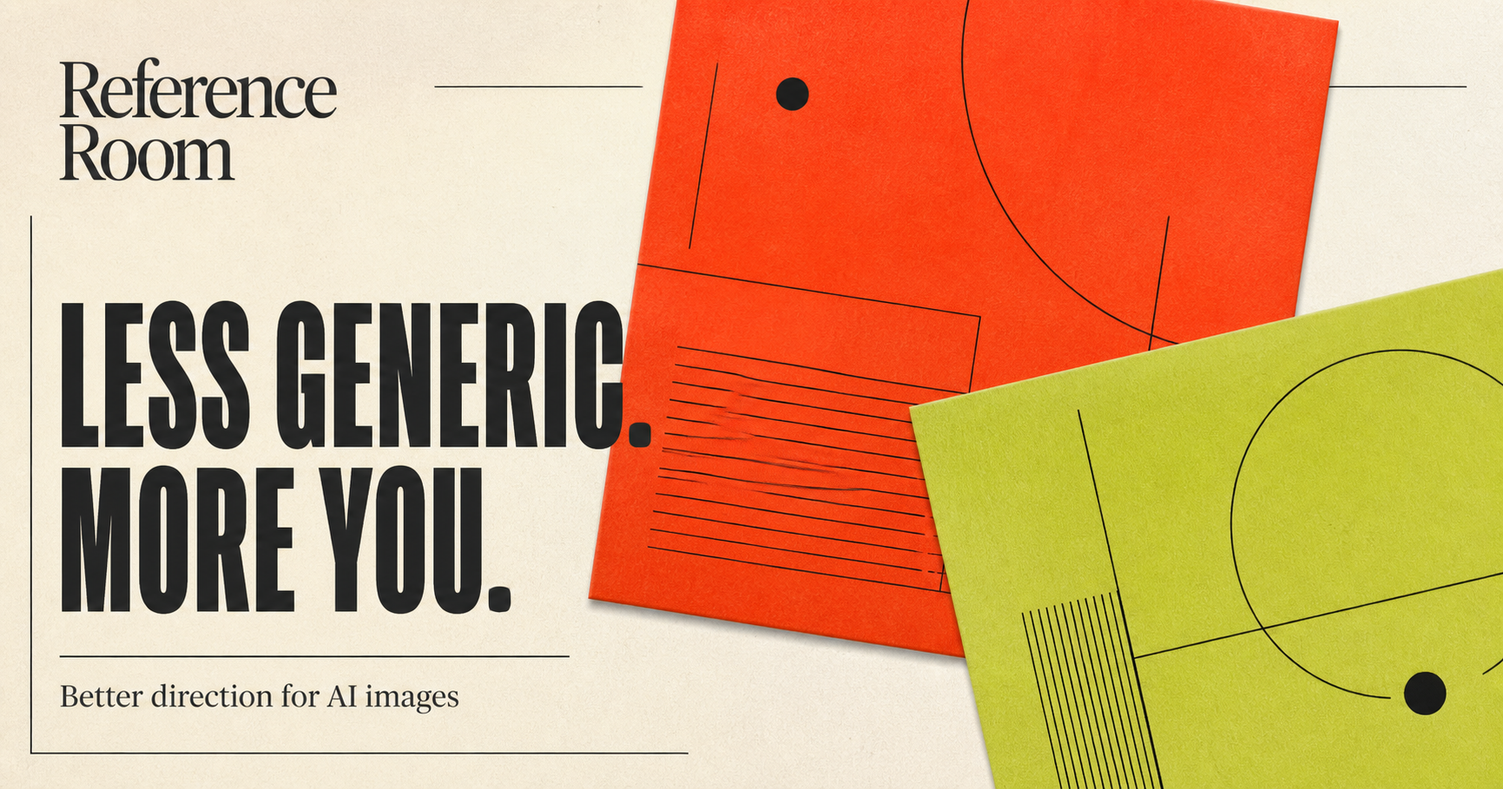
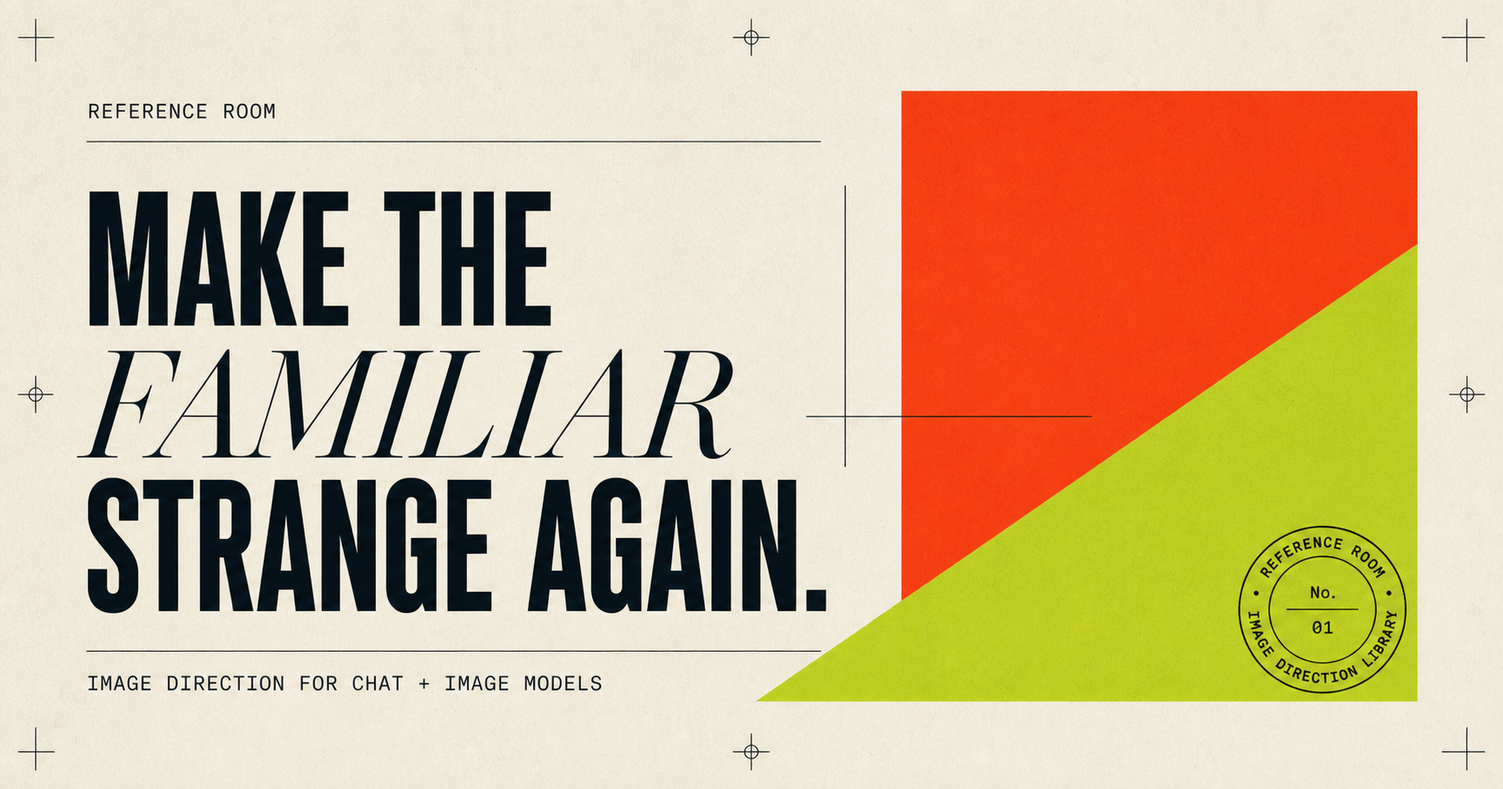
Redesign Reference Room library experience

diff --git a/app/globals.css b/app/globals.css
@@ -1,2 +1,2 @@
-@import url('https://fonts.googleapis.com/css2?family=DM+Mono:wght@400;500&family=DM+Sans:wght@400;500;600;700&family=Playfair+Display:ital,wght@0,500;0,600;1,500;1,600&display=swap');
-:root{--ink:#202018;--paper:#f4f1e8;--cream:#eae4d6;--orange:#f06a3a;--lime:#c5d37a;--line:rgba(32,32,24,.18);--serif:'Playfair Display',Georgia,serif;--sans:'DM Sans',sans-serif;--mono:'DM Mono',monospace}*{box-sizing:border-box}html{scroll-behavior:smooth}body{margin:0;background:var(--paper);color:var(--ink);font-family:var(--sans)}a{color:inherit;text-decoration:none}button,input{font:inherit}.site-header{height:78px;border-bottom:1px solid var(--line);padding:0 clamp(20px,5vw,76px);display:flex;align-items:center;justify-content:space-between;background:rgba(244,241,232,.92);position:sticky;top:0;z-index:10;backdrop-filter:blur(12px)}.brand{font-size:14px;font-weight:700;letter-spacing:-.03em;display:flex;gap:10px;align-items:center}.brand span,.gate-mark{width:28px;height:28px;display:grid;place-items:center;border:1px solid currentColor;border-radius:50%;font:500 9px var(--mono);letter-spacing:-.1em}.site-header nav{display:flex;gap:27px;font-size:13px}.site-header nav a:hover,.text-link:hover{color:var(--orange)}.menu-button{display:none;background:none;border:0;color:inherit}.hero{min-height:680px;padding:clamp(80px,12vw,150px) clamp(20px,9vw,150px) 90px;display:grid;grid-template-columns:minmax(0,1fr) minmax(310px,.75fr);gap:10vw;align-items:center;border-bottom:1px solid var(--line);overflow:hidden}.eyebrow,.mini-label{font:500 10px var(--mono);letter-spacing:.12em;text-transform:uppercase}.hero h1,.gate-card h1{font:500 clamp(58px,7.3vw,110px)/.92 var(--serif);letter-spacing:-.07em;margin:18px 0 26px}.hero h1 em{color:var(--orange);font-weight:500}.hero-copy{max-width:470px;font-size:17px;line-height:1.55}.hero-actions{display:flex;gap:28px;align-items:center;margin-top:35px}.button{padding:14px 18px;display:inline-flex;align-items:center;gap:25px;font-size:12px;font-weight:600;border:1px solid var(--ink);transition:.2s transform,.2s background}.button:hover{transform:translateY(-2px)}.button.dark{background:var(--ink);color:var(--paper)}.button.light{background:transparent}.button span,.card-link span{font-size:17px;line-height:0}.text-link{font-size:13px;text-decoration:underline;text-underline-offset:4px}.hero-art{height:390px;position:relative;transform:rotate(2deg)}.art-card{position:absolute;width:230px;height:294px;padding:20px;display:flex;justify-content:space-between;flex-direction:column;box-shadow:9px 10px 0 rgba(32,32,24,.12);overflow:hidden}.art-card span{font:10px var(--mono)}.art-card b{font:500 34px/.88 var(--serif);letter-spacing:-.07em;z-index:1}.card-one{top:0;left:0;background:var(--orange);transform:rotate(-8deg)}.card-two{right:0;bottom:0;background:var(--lime);transform:rotate(9deg)}.art-card:after{content:"";position:absolute;width:230px;height:230px;border:2px solid var(--ink);border-radius:50%;right:-58px;top:50px}.card-two:after{border-radius:0;transform:rotate(42deg);top:75px}.art-note{position:absolute;bottom:28px;left:-30px;background:var(--paper);padding:12px 15px;border:1px solid var(--ink);font:10px/1.5 var(--mono);z-index:2;transform:rotate(-6deg)}.feature-strip{display:grid;grid-template-columns:1fr 1fr;gap:11vw;padding:clamp(70px,10vw,140px) clamp(20px,9vw,150px);background:var(--lime)}h2{font:500 clamp(36px,4.2vw,66px)/.98 var(--serif);letter-spacing:-.06em;margin:16px 0}.feature-strip h2{max-width:500px}.freebie-card{padding:28px;border:1px solid var(--ink);background:var(--paper);box-shadow:7px 7px 0 var(--ink)}.freebie-card h3,.pack-info h3{font:500 29px/.98 var(--serif);letter-spacing:-.05em;margin:13px 0}.freebie-card p{line-height:1.5;max-width:370px}.freebie-card .button{margin-top:13px}.library-section{padding:clamp(70px,10vw,140px) clamp(20px,9vw,150px)}.section-head{display:flex;justify-content:space-between;gap:50px;align-items:end;margin-bottom:50px}.section-head>p{max-width:300px;margin-bottom:9px;font-size:14px;line-height:1.5}.pack-grid{display:grid;grid-template-columns:repeat(4,1fr);gap:20px}.pack-card{min-width:0}.pack-art{height:260px;padding:18px;position:relative;display:flex;flex-direction:column;justify-content:space-between;overflow:hidden;border:1px solid var(--ink)}.pack-art span{font:10px var(--mono);z-index:2}.pack-art b{font:500 34px/.86 var(--serif);letter-spacing:-.07em;max-width:160px;z-index:2}.pack-art i{position:absolute;display:block;border:1px solid var(--ink);width:200px;height:200px;border-radius:50%;right:-65px;top:35px}.pack-art i:nth-of-type(2){width:105px;height:105px;right:58px;top:105px}.violet{background:#b3a3d8}.copper{background:#db8e62}.moss{background:#a5b08c}.blue{background:#8cc4d0}.pack-info{padding:18px 1px 0}.pack-info h3{font-size:26px}.pack-info p:not(.mini-label){font-size:13px;line-height:1.5;min-height:60px}.card-link{padding:0;border:0;background:none;font-weight:600;font-size:12px;display:flex;gap:9px;align-items:center;cursor:pointer}.how-section{padding:clamp(70px,10vw,140px) clamp(20px,9vw,150px);border-top:1px solid var(--line);background:var(--cream)}.how-section h2{max-width:850px}.steps{display:grid;grid-template-columns:repeat(3,1fr);gap:25px;margin-top:65px}.steps p{margin:0;border-top:1px solid var(--ink);padding-top:15px;font-size:14px;line-height:1.5}.steps span{font:10px var(--mono);display:block;margin-bottom:24px}.help-section{padding:clamp(70px,10vw,130px) clamp(20px,9vw,150px);display:flex;justify-content:space-between;gap:40px;align-items:end}.help-section h2{margin-bottom:13px}.help-section p{max-width:420px;line-height:1.5}footer{padding:27px clamp(20px,5vw,76px);border-top:1px solid var(--line);display:flex;justify-content:space-between;align-items:center;font-size:11px}footer p{margin:0}.toast{position:fixed;right:20px;bottom:20px;max-width:360px;padding:15px 16px;background:var(--ink);color:var(--paper);font-size:12px;z-index:20;box-shadow:5px 5px 0 var(--orange);display:flex;gap:14px;align-items:start}.toast button{border:0;background:none;color:inherit;cursor:pointer;font-size:18px;line-height:.7}.gate-shell{min-height:100svh;background:var(--orange);padding:clamp(22px,4vw,56px);display:flex;flex-direction:column;justify-content:space-between;position:relative;overflow:hidden}.gate-shell:before,.gate-shell:after{content:"";position:absolute;width:min(68vw,760px);height:min(68vw,760px);border:1px solid var(--ink);border-radius:50%;right:-16vw;bottom:-30vw}.gate-shell:after{width:min(43vw,490px);height:min(43vw,490px);right:8vw;bottom:-14vw}.gate-mark{z-index:1}.gate-card{max-width:680px;margin:8vh auto;position:relative;z-index:1}.gate-card h1{font-size:clamp(62px,9vw,122px);max-width:650px}.gate-copy{max-width:540px;font-size:17px;line-height:1.55}.gate-form{margin-top:45px;max-width:520px}.gate-form label{display:block;font-size:12px;font-weight:700;margin-bottom:10px}.email-row{display:flex;border:1px solid var(--ink);background:var(--paper)}.email-row input{flex:1;min-width:0;border:0;background:transparent;padding:17px;outline-offset:-4px}.email-row button{border:0;border-left:1px solid var(--ink);background:var(--ink);color:var(--paper);padding:0 23px;font-weight:600;cursor:pointer}.gate-form p,.form-status{font-size:11px;line-height:1.4}.gate-footer{font:10px var(--mono);z-index:1;margin:0}.form-status{font-weight:600}@media(max-width:800px){.site-header nav{display:none}.site-header nav.open{position:absolute;display:flex;flex-direction:column;gap:17px;left:0;right:0;top:77px;padding:22px 20px;background:var(--paper);border-bottom:1px solid var(--line)}.menu-button{display:block}.hero{grid-template-columns:1fr;gap:50px;min-height:auto}.hero-art{width:min(100%,430px);margin:auto;height:350px}.feature-strip,.section-head{grid-template-columns:1fr;display:grid;gap:35px}.pack-grid{grid-template-columns:repeat(2,1fr)}.help-section{align-items:start;flex-direction:column}.steps{grid-template-columns:1fr;margin-top:45px;gap:25px}.steps span{margin-bottom:10px}}@media(max-width:480px){.hero h1{font-size:59px}.hero-actions{align-items:start;flex-direction:column;gap:18px}.pack-grid{grid-template-columns:1fr}.pack-art{height:220px}.feature-strip,.library-section,.how-section,.help-section{padding-left:20px;padding-right:20px}.art-card{width:190px;height:250px}.art-card b{font-size:29px}.card-two{right:0}.gate-card{margin:12vh 0}.gate-card h1{font-size:63px}footer{gap:18px;align-items:start;flex-direction:column}}
+@import url('https://fonts.googleapis.com/css2?family=DM+Mono:wght@400;500&family=DM+Sans:wght@400;500;600;700&family=Instrument+Serif:ital@0;1&display=swap');
+:root{--ink:#121212;--paper:#f3efe6;--lime:#d7ff57;--orange:#ff5d33;--blue:#94bdd6;--line:rgba(18,18,18,.28);--serif:'Instrument Serif',Georgia,serif;--sans:'DM Sans',sans-serif;--mono:'DM Mono',monospace}*{box-sizing:border-box}html{scroll-behavior:smooth}body{margin:0;background:var(--paper);color:var(--ink);font-family:var(--sans)}a{color:inherit;text-decoration:none}button,input{font:inherit}.kicker{font:500 10px/1.25 var(--mono);letter-spacing:.1em;margin:0;text-transform:uppercase}.access{min-height:100svh;background:var(--ink);color:var(--paper);display:flex;flex-direction:column;justify-content:space-between}.access-top,.access-footer{display:flex;justify-content:space-between;padding:19px 25px;border-bottom:1px solid rgba(243,239,230,.3);font:10px var(--mono);letter-spacing:.07em}.access-footer{border-top:1px solid rgba(243,239,230,.3);border-bottom:0}.access-body{width:min(1240px,100%);margin:auto;padding:60px clamp(25px,8vw,120px);display:grid;grid-template-columns:1.15fr .85fr;gap:10vw;align-items:end}.access h1{font:400 clamp(67px,9vw,150px)/.79 var(--serif);letter-spacing:-.075em;margin:18px 0 0}.access h1 em{color:var(--lime)}.access-side>p{font-size:19px;line-height:1.35;max-width:390px}.access ul{padding:20px 0 25px;margin:24px 0;border-top:1px solid rgba(243,239,230,.35);border-bottom:1px solid rgba(243,239,230,.35);list-style:none;font:11px/2.1 var(--mono);letter-spacing:.04em}.access form{margin-top:30px}.access label{font-size:11px;font-weight:600;display:block;margin-bottom:10px}.access-input{border:1px solid var(--paper);display:flex}.access-input input{min-width:0;flex:1;border:0;background:transparent;color:var(--paper);padding:15px;outline-offset:-3px}.access-input input::placeholder{color:rgba(243,239,230,.55)}.access-input button{width:55px;border:0;border-left:1px solid var(--paper);background:var(--lime);color:var(--ink);font-size:24px;cursor:pointer}.access small{display:block;margin-top:9px;color:rgba(243,239,230,.7);font-size:10px}.form-status{font-size:11px;color:var(--lime)}.header{height:64px;padding:0 clamp(18px,4vw,60px);border-bottom:1px solid var(--line);display:flex;align-items:center;justify-content:space-between;position:sticky;top:0;z-index:10;background:rgba(243,239,230,.95);backdrop-filter:blur(10px)}.wordmark{display:flex;gap:8px;align-items:center;font:600 11px var(--mono);letter-spacing:.02em}.wordmark span{width:23px;height:23px;display:grid;place-items:center;background:var(--ink);color:var(--paper);border-radius:50%;font-size:8px;letter-spacing:-.1em}.header nav{display:flex;gap:23px;font:10px var(--mono)}.header nav a:hover{color:var(--orange)}.menu{display:none;border:0;background:none;font:10px var(--mono);cursor:pointer}.statement{min-height:680px;padding:26px clamp(18px,7vw,120px) 50px;border-bottom:1px solid var(--line);display:flex;flex-direction:column;justify-content:space-between;overflow:hidden}.statement-top,.statement-bottom{display:flex;justify-content:space-between;align-items:start}.counter{margin:0;font:10px var(--mono)}.statement h1{margin:65px 0 50px;font:400 clamp(80px,12.5vw,202px)/.72 var(--serif);letter-spacing:-.09em;max-width:1080px}.statement h1 span{font-style:italic;color:var(--orange)}.statement-bottom p{max-width:350px;font-size:15px;line-height:1.45;margin:0}.round-link{width:50px;height:50px;border:1px solid var(--ink);border-radius:50%;display:grid;place-items:center;font-size:22px;transition:background .2s,color .2s}.round-link:hover{background:var(--ink);color:var(--paper)}.signal{padding:16px clamp(18px,4vw,60px);background:var(--ink);color:var(--paper);font:10px/1.5 var(--mono);letter-spacing:.03em}.signal p{margin:0}.signal span{color:var(--lime);margin:0 15px}.free{display:grid;grid-template-columns:.6fr 1fr .9fr;min-height:510px;border-bottom:1px solid var(--line)}.free-label{padding:32px clamp(18px,4vw,60px);border-right:1px solid var(--line);display:flex;flex-direction:column;justify-content:space-between}.free-label span{font:10px var(--mono)}.free-copy{padding:clamp(50px,8vw,105px) clamp(24px,5vw,80px)}h2{font:400 clamp(48px,5vw,82px)/.84 var(--serif);letter-spacing:-.07em;margin:16px 0 22px}h2 em{color:var(--orange)}.free-copy>p{max-width:370px;font-size:15px;line-height:1.5}.primary,.outline{display:inline-flex;gap:45px;align-items:center;padding:14px 16px;border:1px solid var(--ink);margin-top:24px;font-size:12px;font-weight:600;transition:.2s}.primary{background:var(--ink);color:var(--paper)}.primary:hover,.outline:hover{background:var(--lime);color:var(--ink)}.specimen{background:var(--lime);padding:28px;display:flex;flex-direction:column;justify-content:space-between;border-left:1px solid var(--line);position:relative;overflow:hidden}.specimen:before{content:"";position:absolute;inset:18px;border:1px solid var(--ink);border-radius:50%}.specimen span,.specimen i{font:10px var(--mono);font-style:normal;z-index:1}.specimen b{font:400 clamp(39px,4.3vw,70px)/.82 var(--serif);letter-spacing:-.07em;z-index:1}.collection{padding:clamp(70px,9vw,145px) clamp(18px,7vw,120px)}.collection-head{display:grid;grid-template-columns:.65fr 1fr .75fr;align-items:end;gap:40px;margin-bottom:65px}.collection-head h2{margin:0}.collection-head>p{font-size:14px;line-height:1.45;margin:0;max-width:260px}.pack-list{border-top:1px solid var(--ink)}.pack{display:grid;grid-template-columns:.4fr 1.2fr 1fr .7fr;gap:30px;padding:25px 0;border-bottom:1px solid var(--ink);align-items:center;transition:padding .2s,background .2s}.pack:hover{padding-left:18px;padding-right:18px}.pack.lime:hover{background:var(--lime)}.pack.orange:hover{background:var(--orange)}.pack.blue:hover{background:var(--blue)}.pack.paper:hover{background:#d5cec0}.pack-number{font:10px var(--mono)}.pack h3{font:400 clamp(32px,3.1vw,52px)/.87 var(--serif);letter-spacing:-.07em;margin:8px 0 0}.pack-description{font-size:13px;line-height:1.5;margin:0}.pack-action a,.pack-action button{border:0;background:none;padding:0;font-size:12px;font-weight:600;cursor:pointer;display:flex;gap:12px;align-items:center}.pack-action span{font-size:18px}.method{display:grid;grid-template-columns:.55fr 1.2fr 1fr;gap:45px;padding:clamp(70px,9vw,140px) clamp(18px,7vw,120px);background:var(--orange);border-top:1px solid var(--ink)}.method-stamp{width:110px;height:110px;border:1px solid var(--ink);border-radius:50%;display:grid;place-items:center;text-align:center;font:10px/1.35 var(--mono);transform:rotate(-12deg)}.method h2{max-width:620px}.method ol{list-style:none;margin:0;padding:0}.method li{border-top:1px solid var(--ink);padding:13px 0;display:grid;grid-template-columns:35px 1fr;gap:10px}.method li span{font:10px var(--mono)}.method li p{margin:0;font-size:14px;line-height:1.35}.help{padding:clamp(70px,9vw,140px) clamp(18px,7vw,120px);display:flex;justify-content:space-between;align-items:end;gap:30px}.help h2{margin-bottom:0}.outline{margin:0}.footer{padding:21px clamp(18px,4vw,60px);border-top:1px solid var(--line);display:flex;justify-content:space-between;align-items:center;font:10px var(--mono)}.footer p{margin:0}.toast{position:fixed;right:20px;bottom:20px;max-width:350px;padding:14px 15px;background:var(--ink);color:var(--paper);z-index:20;font-size:12px;display:flex;gap:15px;box-shadow:4px 4px 0 var(--lime)}.toast button{border:0;background:none;color:inherit;font-size:17px;cursor:pointer}@media(max-width:800px){.access-body{grid-template-columns:1fr;gap:45px;padding-top:90px}.access h1{font-size:80px}.header nav{display:none}.header nav.show{display:flex;position:absolute;top:63px;left:0;right:0;background:var(--paper);border-bottom:1px solid var(--line);padding:20px;flex-direction:column;gap:16px}.menu{display:block}.statement{min-height:580px}.statement h1{font-size:88px}.free,.method{grid-template-columns:1fr}.free-label{border-right:0;border-bottom:1px solid var(--line);min-height:130px}.specimen{min-height:250px;border-left:0;border-top:1px solid var(--line)}.collection-head{grid-template-columns:1fr;gap:18px;margin-bottom:40px}.pack{grid-template-columns:36px 1fr;gap:15px}.pack-description,.pack-action{grid-column:2}.method{gap:45px}.help{align-items:start;flex-direction:column}.footer{gap:14px;align-items:start;flex-direction:column}}@media(max-width:480px){.access-top,.access-footer{padding:16px 18px;font-size:8px}.access-footer span:last-child{display:none}.access h1{font-size:66px}.statement{padding-left:18px;padding-right:18px}.statement h1{font-size:73px}.statement-bottom{gap:25px}.statement-bottom p{font-size:13px}.signal span{display:block;margin:5px 0}.free-copy{padding:50px 24px}.method,.collection,.help{padding-left:18px;padding-right:18px}.footer p:last-child{display:none}}

diff --git a/app/page.tsx b/app/page.tsx
@@ -2,19 +2,19 @@
 
 import { FormEvent, useEffect, useState } from "react";
 
-type Pack = { title: string; description: string; format: string; tag: string; theme: string; free?: boolean };
+type Pack = { number: string; title: string; description: string; format: string; state: string; tone: string; free?: boolean };
 const packs: Pack[] = [
-  { title: "The Visual Direction Kit", description: "A clean starting point for writing image prompts with a point of view.", format: "12 prompt frameworks", tag: "FREE", theme: "violet", free: true },
-  { title: "Faces With History", description: "Portrait direction that feels specific, lived-in, and far from stock.", format: "40 prompt references", tag: "DROP 01", theme: "copper" },
-  { title: "The World Around Them", description: "Interiors, corners, streets, and textures that make a generated image feel placed.", format: "48 scene references", tag: "DROP 02", theme: "moss" },
-  { title: "Editorial Objects", description: "Quiet product and still-life setups for brands, decks, and art direction.", format: "32 prompt references", tag: "DROP 03", theme: "blue" },
+  { number: "00", title: "Visual Direction Starter", description: "A compact set of language for getting past the model’s first, most generic idea.", format: "12 direction prompts", state: "Free download", tone: "lime", free: true },
+  { number: "01", title: "Faces With History", description: "Portrait direction with memory, texture, and a life outside the frame.", format: "40 reference prompts", state: "In the works", tone: "orange" },
+  { number: "02", title: "The World Around Them", description: "Specific rooms, streets, surfaces, and weather that put an image somewhere real.", format: "48 scene prompts", state: "In the works", tone: "blue" },
+  { number: "03", title: "Editorial Objects", description: "Still-life direction for brands and personal projects that needs a point of view.", format: "32 object prompts", state: "In the works", tone: "paper" },
 ];
 
 export default function Home() {
   const [hasAccess, setHasAccess] = useState(false); const [email, setEmail] = useState(""); const [status, setStatus] = useState(""); const [menuOpen, setMenuOpen] = useState(false);
   useEffect(() => setHasAccess(document.cookie.split(";").some((part) => part.trim().startsWith("reference-room-access="))), []);
-  async function unlock(event: FormEvent<HTMLFormElement>) { event.preventDefault(); setStatus("Opening the library…"); try { const response = await fetch("/api/access", { method: "POST", headers: { "content-type": "application/json" }, body: JSON.stringify({ email }) }); if (!response.ok) throw new Error(); setHasAccess(true); setStatus(""); } catch { setStatus("We could not save your access. Please try again."); } }
-  function showSoon() { setStatus("This paid pack is being prepared. Join the list and you’ll have access when it drops."); }
-  if (!hasAccess) return <main className="gate-shell"><div className="gate-mark">RR</div><section className="gate-card" aria-labelledby="gate-title"><p className="eyebrow">A reference library for the AI era</p><h1 id="gate-title">Make the model see what you mean.</h1><p className="gate-copy">Reference Room is a growing collection of image direction, prompt language, and visual packs made for people creating with chat and AI image models.</p><form onSubmit={unlock} className="gate-form"><label htmlFor="email">Your email unlocks the library</label><div className="email-row"><input id="email" type="email" value={email} onChange={(event) => setEmail(event.target.value)} placeholder="you@email.com" autoComplete="email" required /><button type="submit">Enter</button></div><p>Come back anytime on this device and you’ll stay in.</p></form>{status && <p className="form-status" role="status">{status}</p>}</section><p className="gate-footer">Original visual direction for more intentional generations.</p></main>;
-  return <main><header className="site-header"><a className="brand" href="#top" aria-label="Reference Room home"><span>RR</span> Reference Room</a><button className="menu-button" onClick={() => setMenuOpen(!menuOpen)} aria-expanded={menuOpen} aria-controls="site-navigation">Menu</button><nav id="site-navigation" className={menuOpen ? "open" : ""}><a href="#freebies" onClick={() => setMenuOpen(false)}>Freebies</a><a href="#library" onClick={() => setMenuOpen(false)}>Packs</a><a href="#how-it-works" onClick={() => setMenuOpen(false)}>How it works</a><a href="#help" onClick={() => setMenuOpen(false)}>Help</a></nav></header><section id="top" className="hero"><div><p className="eyebrow">A better reference for better generations</p><h1>Less generic.<br /><em>More you.</em></h1><p className="hero-copy">Browse ready-to-use visual references and prompt direction built to help your favorite AI models make images with taste, context, and precision.</p><div className="hero-actions"><a className="button dark" href="#freebies">Start with a freebie <span>↓</span></a><a className="text-link" href="#library">Browse all packs</a></div></div><div className="hero-art" aria-label="Abstract visual reference collage"><div className="art-card card-one"><span>01</span><b>direction<br />is detail</b></div><div className="art-card card-two"><span>02</span><b>make it<br />specific</b></div><div className="art-note">For image models<br />and creative chat</div></div></section><section id="freebies" className="feature-strip"><div><p className="eyebrow">Free to start</p><h2>Your first piece of direction is on us.</h2></div><div className="freebie-card"><span className="mini-label">FREE DOWNLOAD</span><h3>Visual Direction Starter</h3><p>12 useful ways to describe a feeling, frame, texture, place, and point of view.</p><a href="/downloads/visual-direction-starter.txt" download className="button light">Download the starter <span>↓</span></a></div></section><section id="library" className="library-section"><div className="section-head"><div><p className="eyebrow">The library</p><h2>References with a point of view.</h2></div><p>Every pack is written for use with image models, chat, moodboards, and creative briefs.</p></div><div className="pack-grid">{packs.map((pack) => <article className="pack-card" key={pack.title}><div className={`pack-art ${pack.theme}`}><span>{pack.tag}</span><i></i><i></i><b>{pack.title.split(" ").slice(0, 2).join(" ")}</b></div><div className="pack-info"><p className="mini-label">{pack.format}</p><h3>{pack.title}</h3><p>{pack.description}</p>{pack.free ? <a className="card-link" href="/downloads/visual-direction-starter.txt" download>Get it free <span>↘</span></a> : <button className="card-link" onClick={showSoon}>Get notified <span>↗</span></button>}</div></article>)}</div></section><section id="how-it-works" className="how-section"><p className="eyebrow">Simple by design</p><h2>Find a pack. Give your model better material. Make something that feels like yours.</h2><div className="steps"><p><span>01</span>Pick a visual world that fits your project.</p><p><span>02</span>Download the reference and prompt direction.</p><p><span>03</span>Use it in your chat or image workflow.</p></div></section><section id="help" className="help-section"><div><p className="eyebrow">Need a hand?</p><h2>New to AI image tools?</h2><p>Start with the free pack. It shows you how to use references without overthinking the prompt.</p></div><a className="button dark" href="mailto:hello@referenceroom.co?subject=Reference%20Room%20help">Ask a question <span>↗</span></a></section>{status && <div className="toast" role="status">{status}<button onClick={() => setStatus("")} aria-label="Dismiss message">×</button></div>}<footer><a className="brand" href="#top"><span>RR</span> Reference Room</a><p>Built for the next generation of creators.</p></footer></main>;
+  async function unlock(event: FormEvent<HTMLFormElement>) { event.preventDefault(); setStatus("Saving your place…"); try { const response = await fetch("/api/access", { method: "POST", headers: { "content-type": "application/json" }, body: JSON.stringify({ email }) }); if (!response.ok) throw new Error(); setHasAccess(true); setStatus(""); } catch { setStatus("We could not save your access. Please try again."); } }
+  function showSoon() { setStatus("This pack is next in the library. You’ll be notified when it opens."); }
+  if (!hasAccess) return <main className="access"><header className="access-top"><span>REFERENCE ROOM / 2026</span><span>PRIVATE LIBRARY</span></header><section className="access-body"><div><p className="kicker">01 — ACCESS</p><h1>Give the model<br /><em>better evidence.</em></h1></div><div className="access-side"><p>Not another prompt list. A growing working library of visual direction for people making images with AI.</p><ul><li>Specific visual language</li><li>Useful creative constraints</li><li>Downloads for real projects</li></ul><form onSubmit={unlock}><label htmlFor="email">Enter your email to unlock the room</label><div className="access-input"><input id="email" type="email" value={email} onChange={(event) => setEmail(event.target.value)} placeholder="you@email.com" autoComplete="email" required /><button type="submit">→</button></div><small>Your access is saved for the next time you return.</small></form>{status && <p className="form-status" role="status">{status}</p>}</div></section><footer className="access-footer"><span>REPLACE GENERIC WITH INTENTIONAL.</span><span>SCROLL TO FIND A POINT OF VIEW →</span></footer></main>;
+  return <main className="library"><header className="header"><a className="wordmark" href="#top"><span>RR</span> REFERENCE ROOM</a><button className="menu" onClick={() => setMenuOpen(!menuOpen)} aria-expanded={menuOpen} aria-controls="site-nav">Index +</button><nav id="site-nav" className={menuOpen ? "show" : ""}><a href="#free" onClick={() => setMenuOpen(false)}>00 / Free</a><a href="#packs" onClick={() => setMenuOpen(false)}>01 / Packs</a><a href="#method" onClick={() => setMenuOpen(false)}>02 / Method</a><a href="#help" onClick={() => setMenuOpen(false)}>03 / Help</a></nav></header><section id="top" className="statement"><div className="statement-top"><p className="kicker">IMAGE DIRECTION FOR CHAT + IMAGE MODELS</p><p className="counter">LIBRARY / 0001</p></div><h1>Make<br />the <span>familiar</span><br />strange again.</h1><div className="statement-bottom"><p>Reference Room gives you language, detail, and visual anchors to steer AI image work toward something more personal.</p><a href="#free" className="round-link" aria-label="Go to free download">↓</a></div></section><section className="signal"><p>THE PROBLEM <span>AI MODELS DEFAULT TO AVERAGE.</span> THE FIX <span>GIVE THEM A SPECIFIC WORLD TO WORK FROM.</span></p></section><section id="free" className="free"><div className="free-label"><p className="kicker">FREE ENTRY POINT</p><span>00 / 01</span></div><div className="free-copy"><h2>Start here.<br /><em>Then get precise.</em></h2><p>Visual Direction Starter is a practical, no-fluff introduction to using references and sharper creative language in your next prompt.</p><a className="primary" href="/downloads/visual-direction-starter.txt" download>Download starter <span>↘</span></a></div><div className="specimen" aria-hidden="true"><span>POINT OF VIEW</span><b>“as if you<br />arrived late”</b><i>TEXTURE / PLACE / LIGHT / MOOD</i></div></section><section id="packs" className="collection"><div className="collection-head"><p className="kicker">THE COLLECTION</p><h2>Pick a world.<br />Not a preset.</h2><p>Each pack is a usable collection of visual starting points—not a stack of vague adjectives.</p></div><div className="pack-list">{packs.map((pack) => <article className={`pack ${pack.tone}`} key={pack.title}><div className="pack-number">{pack.number}</div><div className="pack-title"><p className="kicker">{pack.format}</p><h3>{pack.title}</h3></div><p className="pack-description">{pack.description}</p><div className="pack-action">{pack.free ? <a href="/downloads/visual-direction-starter.txt" download>{pack.state} <span>↘</span></a> : <button onClick={showSoon}>{pack.state} <span>↗</span></button>}</div></article>)}</div></section><section id="method" className="method"><div className="method-stamp">RR<br />METHOD<br />01</div><div><p className="kicker">THE METHOD</p><h2>Stop asking for a “vibe.”<br />Give the model a scene.</h2></div><ol><li><span>01</span><p>Choose one visual world with a reason to exist.</p></li><li><span>02</span><p>Borrow the language, constraints, and reference cues.</p></li><li><span>03</span><p>Push your own work further—not just prettier.</p></li></ol></section><section id="help" className="help"><div><p className="kicker">OPEN QUESTION</p><h2>Need help choosing<br />a starting point?</h2></div><a className="outline" href="mailto:hello@referenceroom.co?subject=Reference%20Room%20help">Ask Reference Room <span>↗</span></a></section>{status && <div className="toast" role="status">{status}<button onClick={() => setStatus("")} aria-label="Dismiss message">×</button></div>}<footer className="footer"><a className="wordmark" href="#top"><span>RR</span> REFERENCE ROOM</a><p>For a more considered generation.</p><p>© 2026</p></footer></main>;
 }
